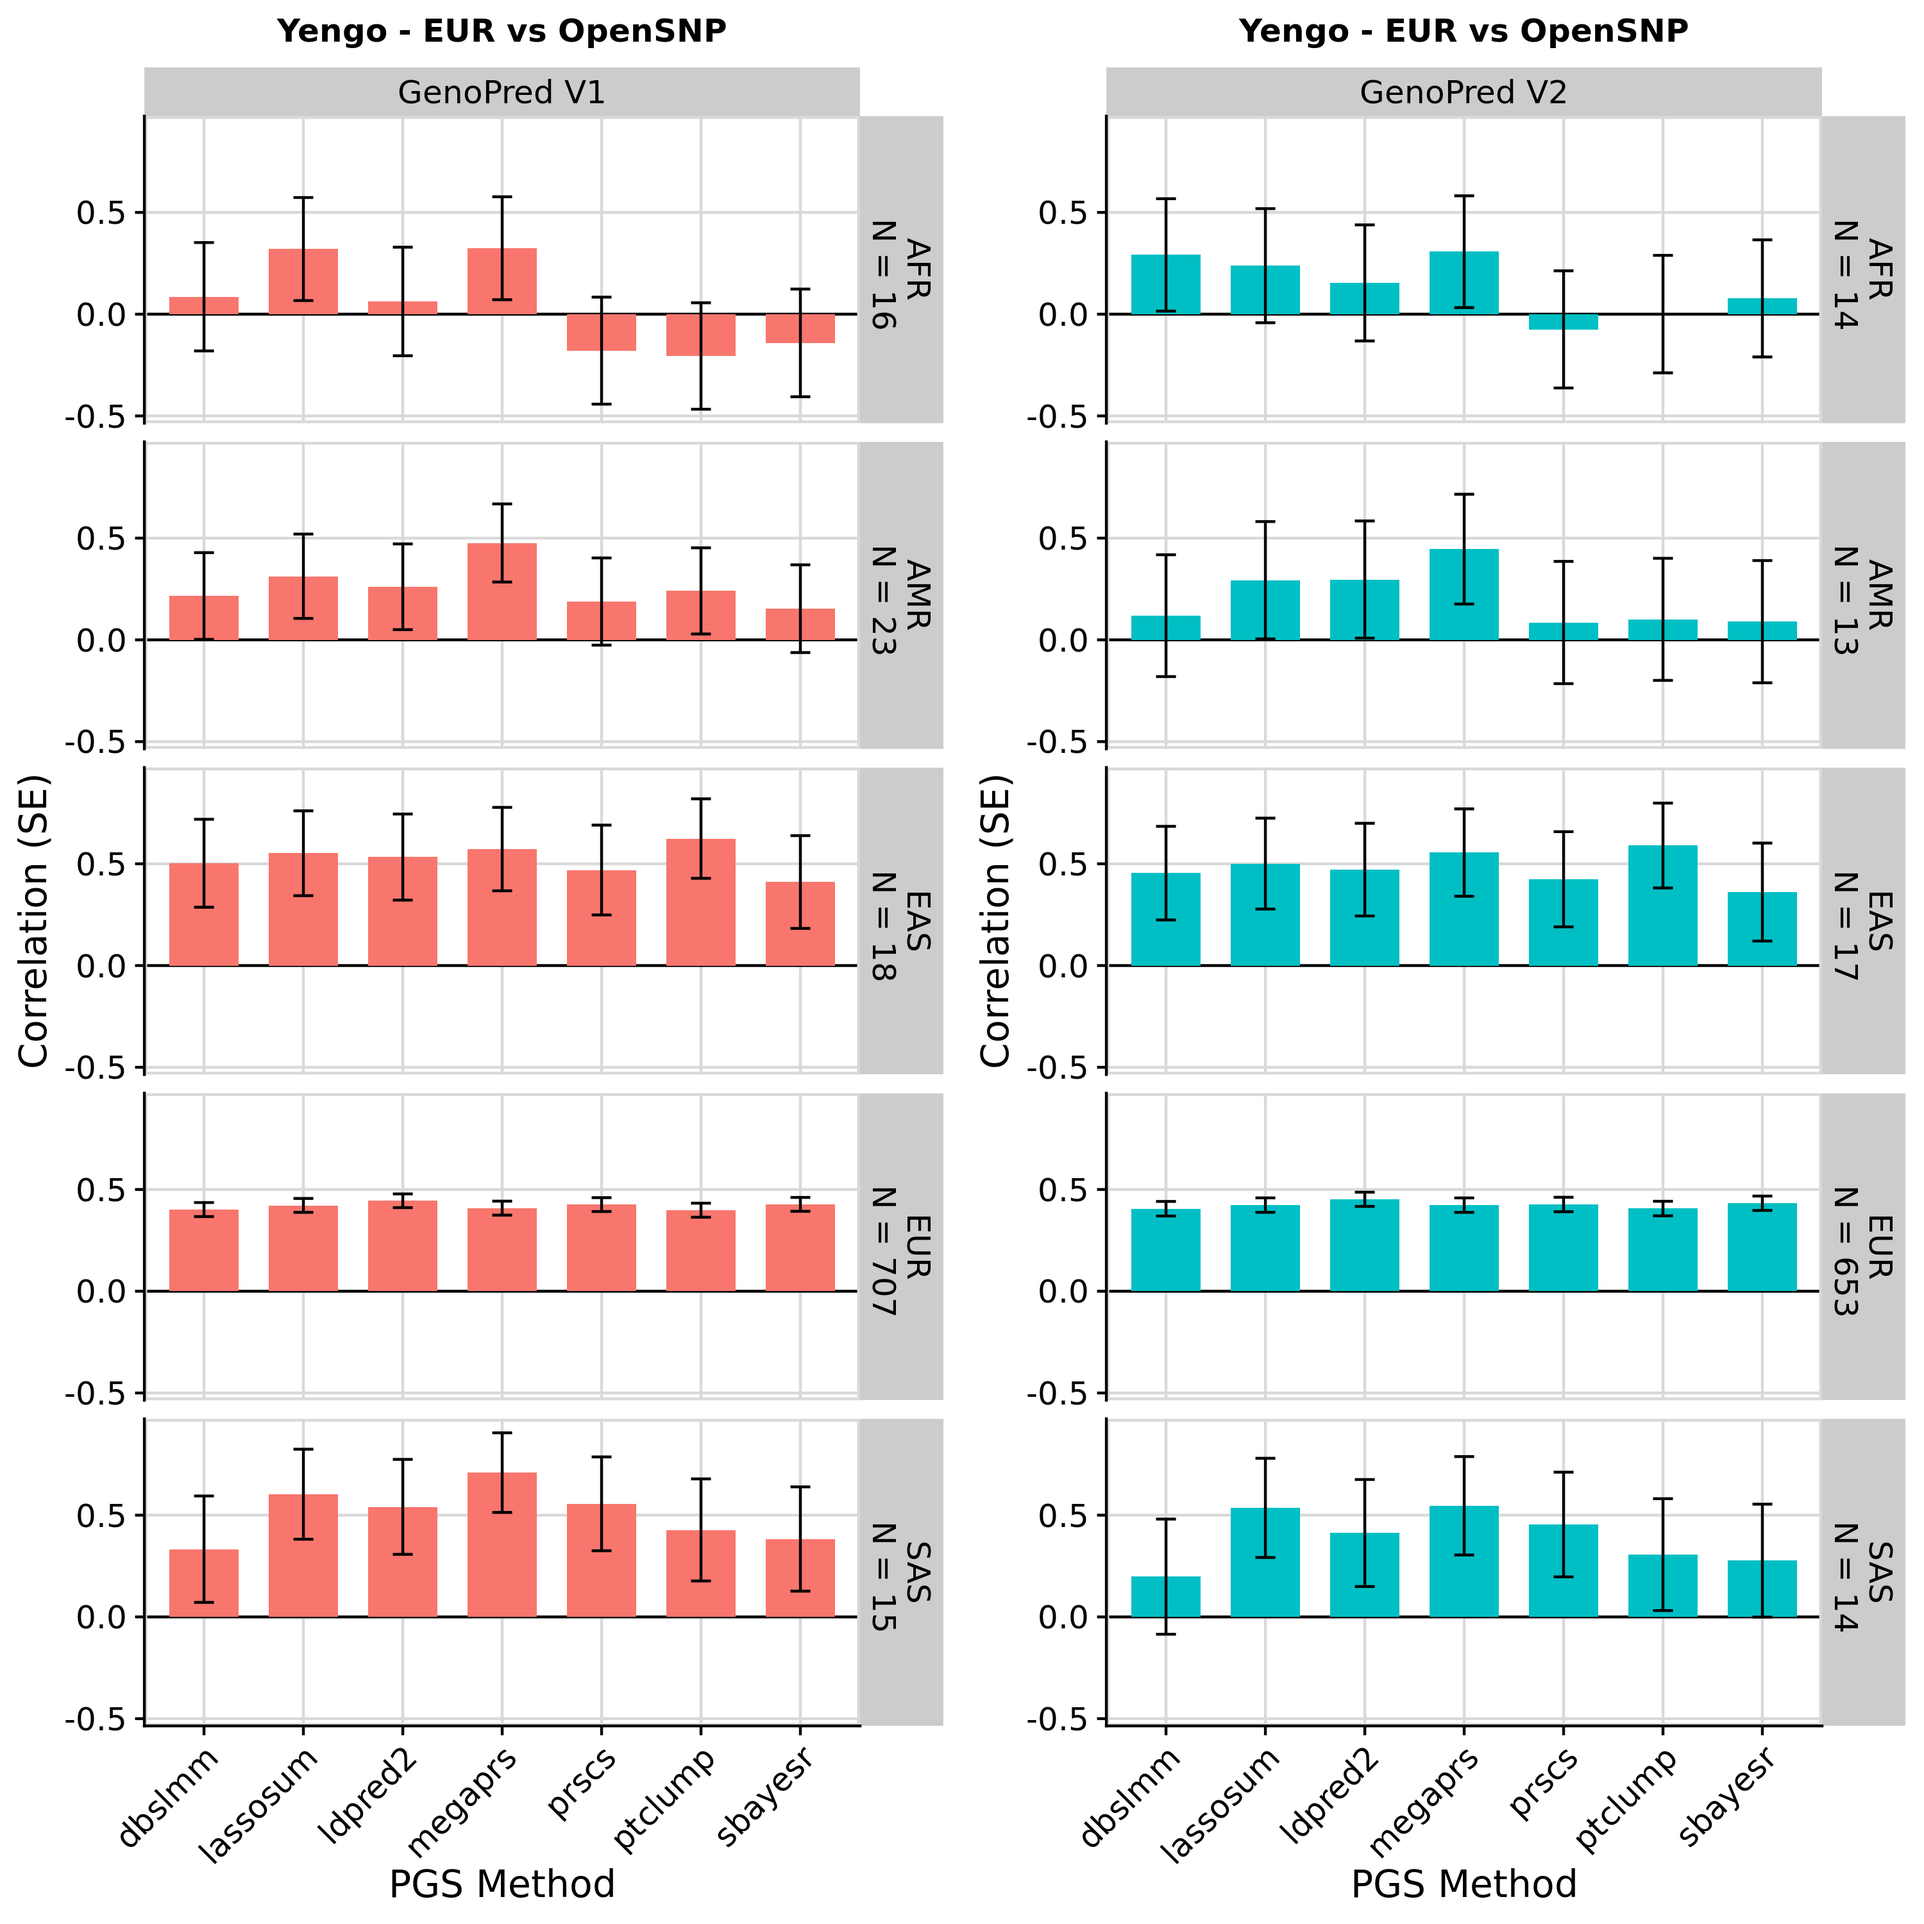
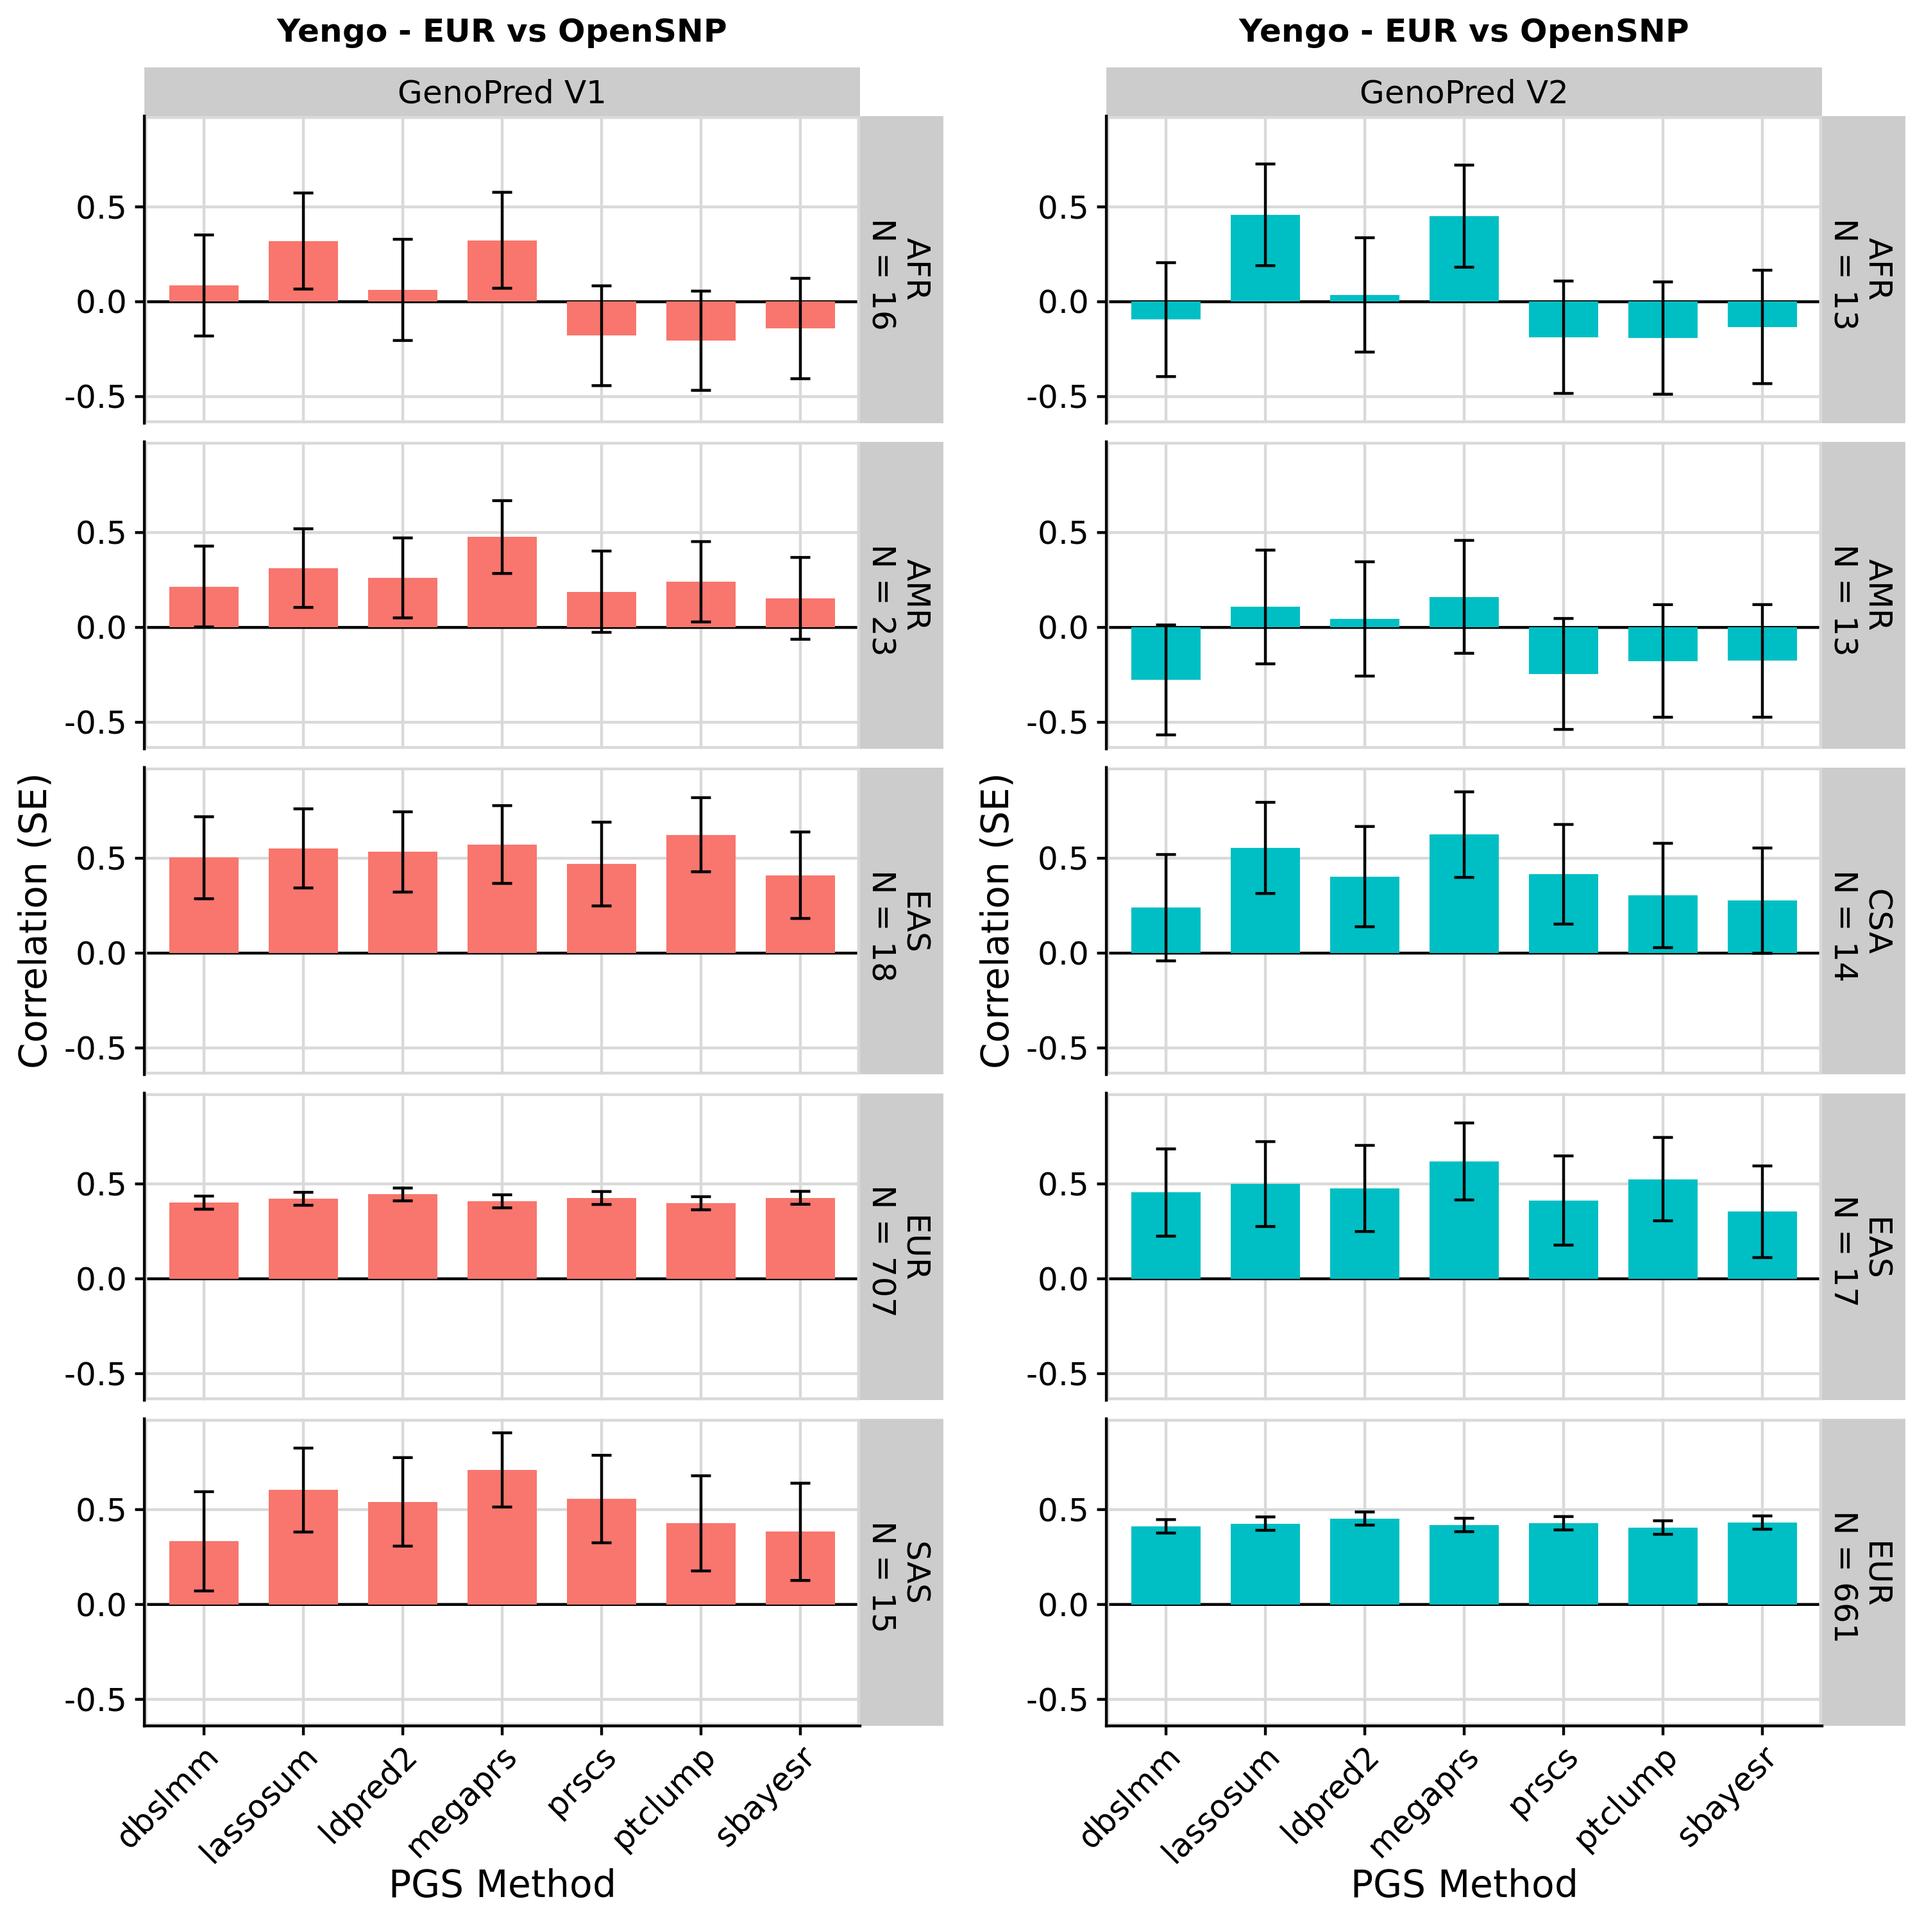
Updated OpenSNP benchmark

diff --git a/docs/opensnp_benchmark.html b/docs/opensnp_benchmark.html
@@ -13,7 +13,7 @@
 
 <title>OpenSNP Benchmark</title>
 
-<script src="site_libs/header-attrs-2.23/header-attrs.js"></script>
+<script src="site_libs/header-attrs-2.25/header-attrs.js"></script>
 <script src="site_libs/jquery-3.6.0/jquery-3.6.0.min.js"></script>
 <meta name="viewport" content="width=device-width, initial-scale=1" />
 <link href="site_libs/bootstrap-3.3.5/css/cosmo.min.css" rel="stylesheet" />
@@ -35,8 +35,8 @@
 <script src="site_libs/navigation-1.1/tabsets.js"></script>
 <link href="site_libs/highlightjs-9.12.0/default.css" rel="stylesheet" />
 <script src="site_libs/highlightjs-9.12.0/highlight.js"></script>
-<link href="site_libs/font-awesome-6.4.0/css/all.min.css" rel="stylesheet" />
-<link href="site_libs/font-awesome-6.4.0/css/v4-shims.min.css" rel="stylesheet" />
+<link href="site_libs/font-awesome-6.4.2/css/all.min.css" rel="stylesheet" />
+<link href="site_libs/font-awesome-6.4.2/css/v4-shims.min.css" rel="stylesheet" />
 <link rel="stylesheet" href="styles/night-mode.css" id="nightModeStylesheet">
 
 <script>
@@ -531,7 +531,7 @@ library(data.table)
 
 # Create config file
 conf &lt;- c(
-  &#39;outdir: /users/k1806347/oliverpainfel/Data/OpenSNP/GenoPred/test4&#39;,
+  &#39;outdir: /users/k1806347/oliverpainfel/Data/OpenSNP/GenoPred/test5&#39;,
   &#39;config_file: misc/opensnp/config.yaml&#39;,
   &#39;gwas_list: misc/opensnp/gwas_list.txt&#39;,
   &#39;score_list: misc/opensnp/score_list.txt&#39;,
@@ -603,7 +603,8 @@ write.table(score_list, &#39;misc/opensnp/score_list.txt&#39;, col.names=T, row.
 <summary>
 Show code
 </summary>
-<pre class="bash"><code>snakemake --profile slurm --use-conda --configfile=misc/opensnp/config.yaml output_all -n </code></pre>
+<pre class="bash"><code>snakemake --profile slurm --use-conda --configfile=misc/opensnp/config.yaml output_all -n 
+snakemake --profile slurm --use-conda --configfile=misc/opensnp/config.yaml outlier_detection -n </code></pre>
 </details>
 <hr />
 </div>
@@ -620,8 +621,8 @@ library(cowplot)
 # Read in configuration specific benchmark files
 bm_files_i &lt;-
   paste0(
-    &#39;/users/k1806347/oliverpainfel/Data/OpenSNP/GenoPred/test4/reference/benchmarks/&#39;,
-    list.files(&#39;/users/k1806347/oliverpainfel/Data/OpenSNP/GenoPred/test4/reference/benchmarks/&#39;)
+    &#39;/users/k1806347/oliverpainfel/Data/OpenSNP/GenoPred/test5/reference/benchmarks/&#39;,
+    list.files(&#39;/users/k1806347/oliverpainfel/Data/OpenSNP/GenoPred/test5/reference/benchmarks/&#39;)
   )
 
 # Read in benchmark files
@@ -706,7 +707,7 @@ source_all(&#39;../functions&#39;)
 pheno &lt;- fread(&#39;/users/k1806347/oliverpainfel/Data/OpenSNP/processed/pheno/height.txt&#39;)
 
 # Define pgs_methods used
-pgs_methods &lt;- c(&#39;external&#39;,&#39;ptclump&#39;, &#39;dbslmm&#39;, &#39;prscs&#39;, &#39;sbayesr&#39;, &#39;lassosum&#39;, &#39;ldpred2&#39;, &#39;megaprs&#39;)
+pgs_methods &lt;- c(&#39;external&#39;,read_param(config = &#39;misc/opensnp/config.yaml&#39;, param = &#39;pgs_methods&#39;, return_obj = F))
 
 # Define pgs_methods applied to non-EUR GWAS
 pgs_methods_eur &lt;- c(&#39;ptclump&#39;,&#39;lassosum&#39;,&#39;megaprs&#39;,&#39;prscs&#39;,&#39;dbslmm&#39;)
@@ -1061,6 +1062,7 @@ keep_list &lt;- fread(&#39;/users/k1806347/oliverpainfel/Data/OpenSNP/GenoPred/t
 
 # Read in pgs
 gwas_list &lt;- fread(&#39;misc/opensnp/gwas_list.txt&#39;)
+gwas_list$name&lt;-gsub(&#39;_&#39;,&#39;&#39;,gwas_list$name)
 pgs_methods &lt;- c(&#39;pt_clump&#39;,&#39;dbslmm&#39;,&#39;prscs&#39;,&#39;sbayesr&#39;,&#39;lassosum&#39;,&#39;ldpred2&#39;,&#39;megaprs&#39;)
 pgs_methods_eur &lt;- c(&#39;pt_clump&#39;,&#39;lassosum&#39;,&#39;megaprs&#39;)
 
@@ -1119,6 +1121,7 @@ write.csv(
   row.names = F
 )
 
+cor&lt;-fread(&#39;/scratch/prj/oliverpainfel/Data/OpenSNP/assoc/genopred-v1-yengo-assoc.csv&#39;)
 # Restrict to best only
 cor_subset &lt;- NULL
 for(pop_i in unique(cor$pop)){
@@ -1295,6 +1298,7 @@ write.csv(
   &#39;/scratch/prj/oliverpainfel/Data/OpenSNP/assoc/genopred-v1-strict-yengo-assoc.csv&#39;,
   row.names = F
 )
+cor&lt;-fread(&#39;/scratch/prj/oliverpainfel/Data/OpenSNP/assoc/genopred-v1-strict-yengo-assoc.csv&#39;)
 
 # Restrict to best only
 cor_subset &lt;- NULL
@@ -1393,7 +1397,7 @@ dev.off()
 # Plot the same plot only using the EUR target population in OpenSNP
 ######
 
-tmp &lt;- cor_both[cor_both$gwas == &#39;yengoeur&#39; &amp; cor_both$pop == &#39;EUR\n N = 653&#39;, ]
+tmp &lt;- cor_both[cor_both$gwas == &#39;yengoeur&#39; &amp; grepl(&#39;EUR&#39;, cor_both$pop), ]
 y_lim &lt;- c(min(tmp$r - tmp$se), max(tmp$r + tmp$se))
 
 v1_plot &lt;-
@@ -1416,7 +1420,7 @@ v1_plot &lt;-
     background_grid() +
     theme(axis.text.x = element_text(angle = 45, hjust = 1),
           plot.title = element_text(hjust = 0.5, size=12)) +
-    facet_grid(pop ~ Version) +
+    facet_grid(. ~ Version) +
     panel_border()
 
 v2_plot &lt;-
@@ -1439,7 +1443,7 @@ v2_plot &lt;-
     background_grid() +
     theme(axis.text.x = element_text(angle = 45, hjust = 1),
           plot.title = element_text(hjust = 0.5, size=12)) +
-    facet_grid(pop ~ Version) +
+    facet_grid(. ~ Version) +
     panel_border()
 
 png(&#39;/users/k1806347/oliverpainfel/Software/MyGit/GenoPred/docs/Images/OpenSNP/genopred-v1-comp_strict_eur-yengo_eur.png&#39;,
@@ -1465,6 +1469,7 @@ Show comparison results
 </div>
 </div>
 </div>
+<p></br></p>
 <div class="centered-container">
 <div class="rounded-image-container">
 <div class="figure">
@@ -1474,6 +1479,7 @@ alt="" />
 </div>
 </div>
 </div>
+<p></br></p>
 <div class="centered-container">
 <div class="rounded-image-container" style="width: 60%;">
 <div class="figure">
